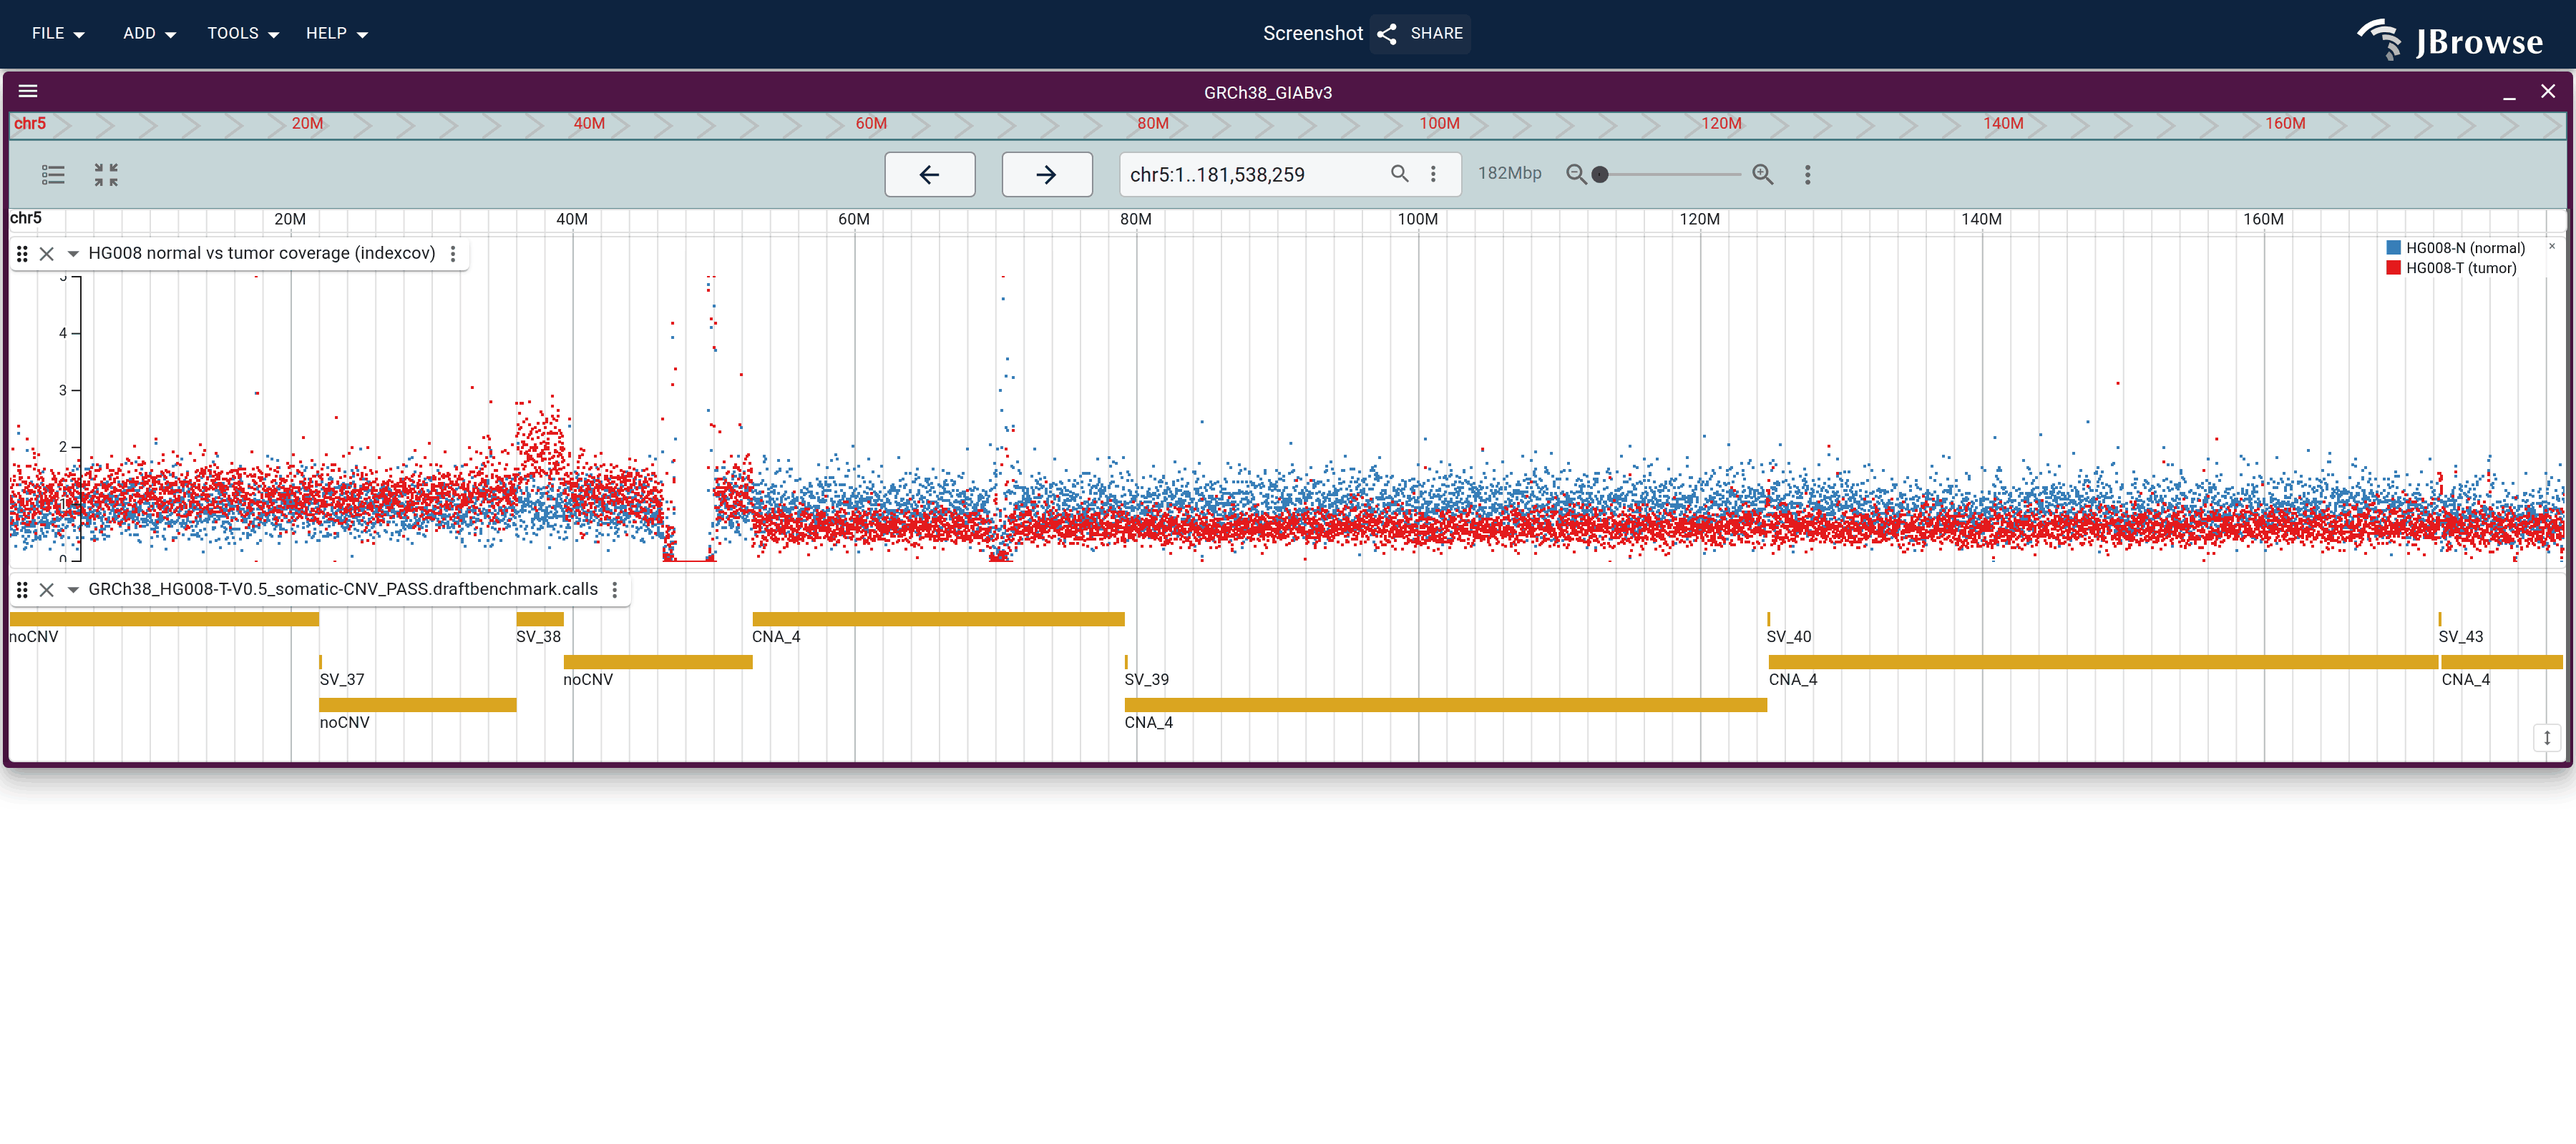
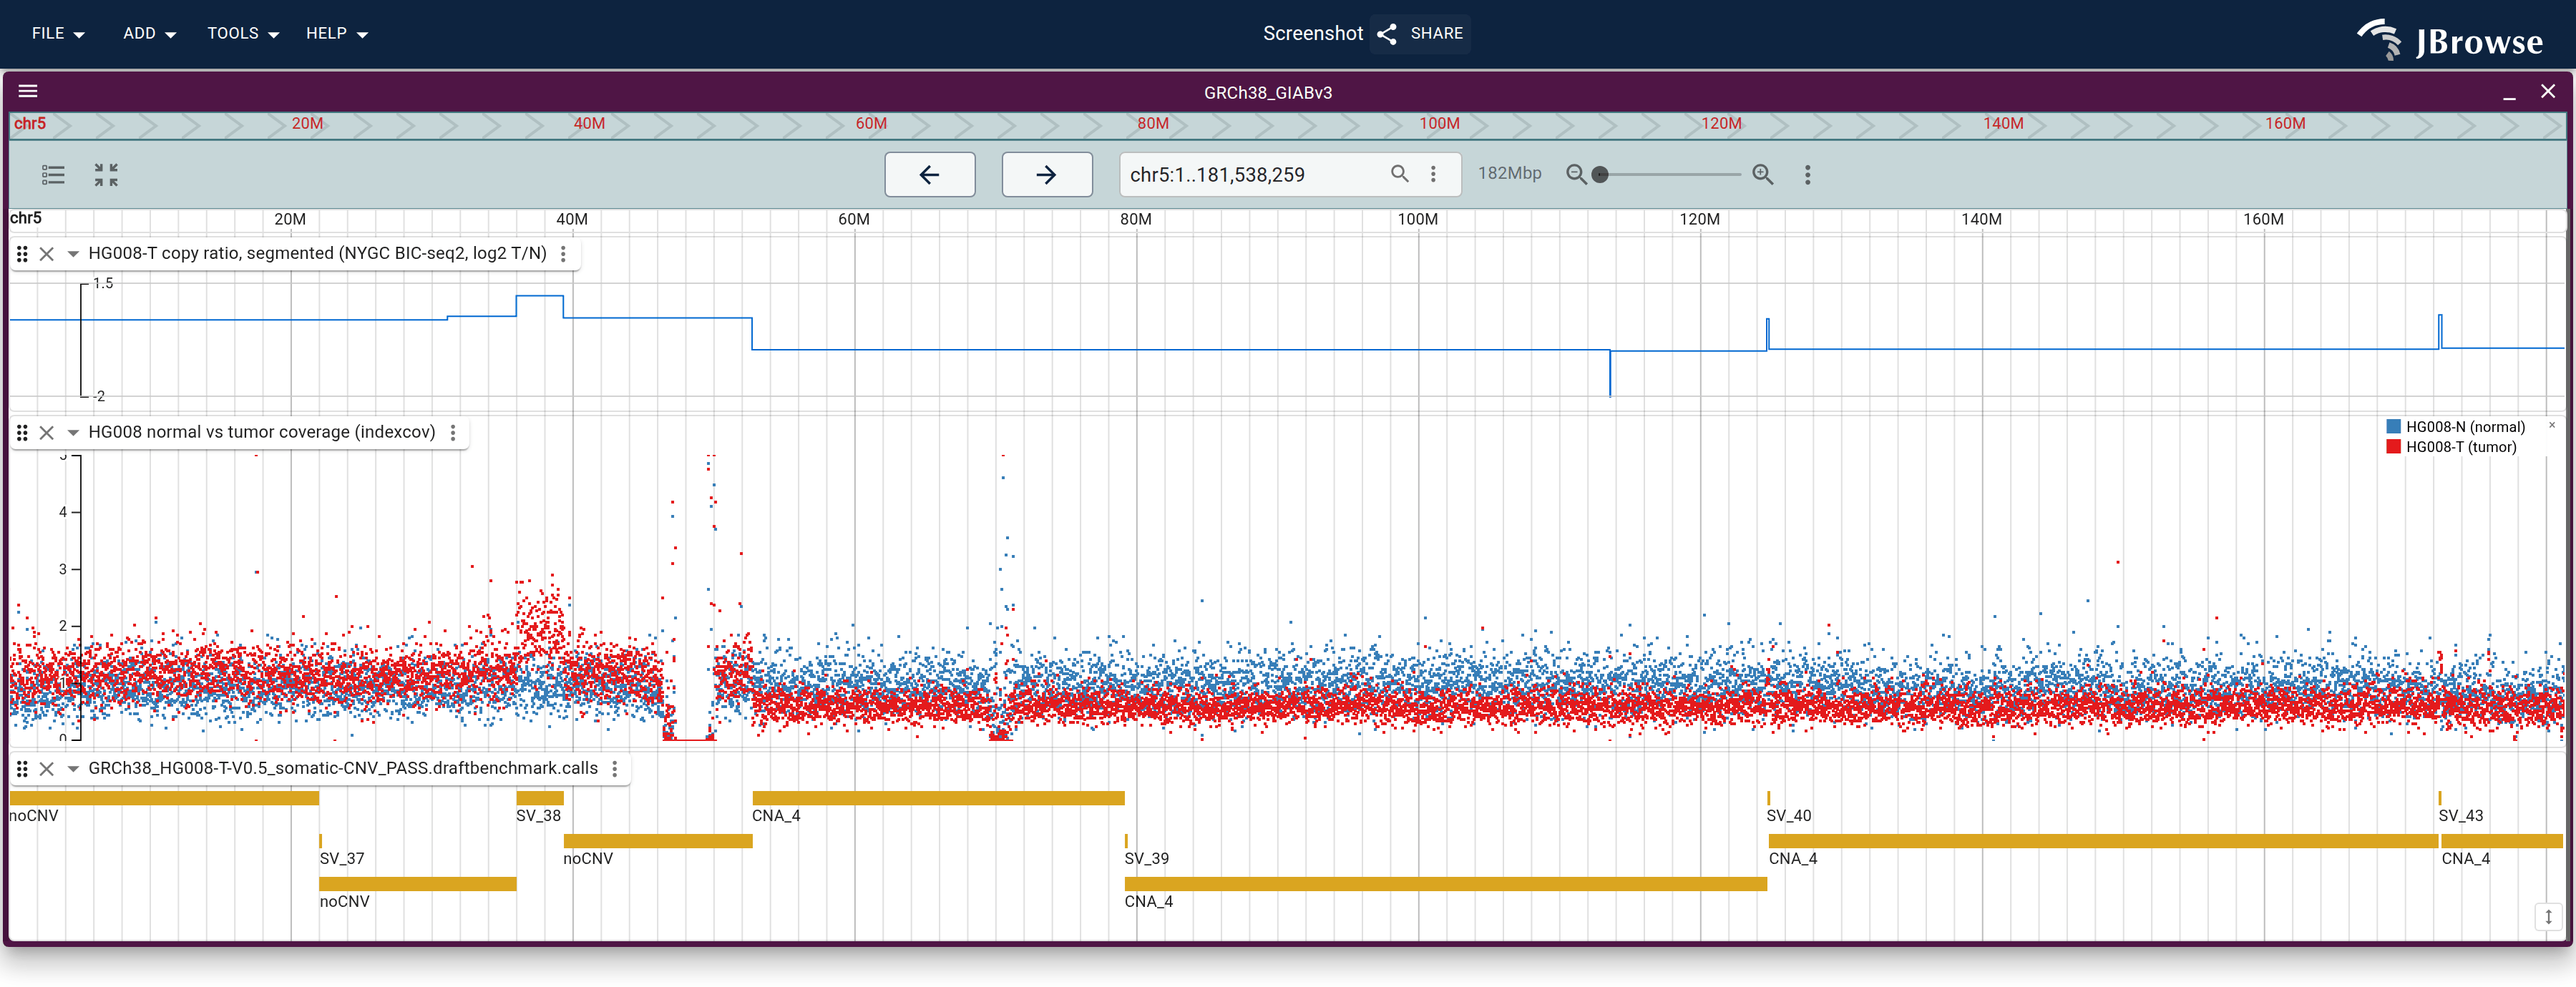
docs(cgiab): finish the copy-ratio lane across the tutorial, and put it in the demo config
The other two CNV figures read depth alone. Whole chr5 now leads with the
segmented lane over the indexcov scatter, and the CDKN2A figure gains what turns
out to be its best evidence: BIC-seq2 segments the focal homozygous deletion at
chr9:21,952,524-21,972,302, which is the benchmark's own SV_75 interval to
within a few dozen bp, so the segment's two edges, the tumour coverage cliff,
the read drop-out and the CN 0 call are four independent lanes agreeing on the
same pair of breakpoints.

The track also joins demos/cgiab/config.json, so it is available to anyone
opening the demo rather than only to the figures that declare it as a session
track.

Claude-Session: https://claude.ai/code/session_01MyHV8buqv4ZRohv9DCCNE1

diff --git a/website/scripts/specs/sv.ts b/website/scripts/specs/sv.ts
@@ -1046,6 +1046,7 @@ export const svSpecs: ScreenshotSpec[] = [
     // directly as copy number).
     url: cgiabUrl({
       sessionTracks: [
+        HG008_BICSEQ2_TRACK,
         {
           type: 'MultiQuantitativeTrack',
           trackId: 'hg008_cnv_indexcov_chr5',
@@ -1084,6 +1085,22 @@ export const svSpecs: ScreenshotSpec[] = [
           trackLabels: 'offset',
           tracks: [
             {
+              trackId: 'hg008_bicseq2',
+              type: 'LinearWiggleDisplay',
+              // step, not scatter: 196 segments genome-wide, so every value is
+              // a plateau and the reader's question is where the plateau moves
+              defaultRendering: 'line',
+              useBicolor: false,
+              displayCrossHatches: true,
+              // same fixed range as the other CNV figures, so a step means the
+              // same thing across the tutorial. A homozygous deletion has no
+              // finite ratio (BIC-seq2 writes it as a large negative) and clips
+              // off the bottom rather than setting the axis for everything else.
+              minScore: -2,
+              maxScore: 1.5,
+              height: 90,
+            },
+            {
               trackId: 'hg008_cnv_indexcov_chr5',
               type: 'MultiLinearWiggleDisplay',
               defaultRendering: 'multiscatter',
@@ -1102,6 +1119,9 @@ export const svSpecs: ScreenshotSpec[] = [
     readyTimeout: 60000,
     // wider viewport so the whole-chromosome CNV + bed track aren't cut off
     viewportWidth: 1800,
+    // the segmented lane(90) + the coverage rows(200) + the bed calls + chrome;
+    // sized rather than left to the default, which now leaves blank below
+    viewportHeight: 690,
     settleMs: 15000,
   },
 
@@ -1219,6 +1239,7 @@ export const svSpecs: ScreenshotSpec[] = [
     name: 'sv_cgiab/driver_cdkn2a_deletion',
     url: cgiabUrl({
       sessionTracks: [
+        HG008_BICSEQ2_TRACK,
         {
           // tumor over normal, one row each on a shared fixed scale
           type: 'MultiQuantitativeTrack',
@@ -1299,6 +1320,22 @@ export const svSpecs: ScreenshotSpec[] = [
               geneGlyphMode: 'longestCoding',
             },
             {
+              trackId: 'hg008_bicseq2',
+              type: 'LinearWiggleDisplay',
+              // step, not scatter: 196 segments genome-wide, so every value is
+              // a plateau and the reader's question is where the plateau moves
+              defaultRendering: 'line',
+              useBicolor: false,
+              displayCrossHatches: true,
+              // same fixed range as the other CNV figures, so a step means the
+              // same thing across the tutorial. A homozygous deletion has no
+              // finite ratio (BIC-seq2 writes it as a large negative) and clips
+              // off the bottom rather than setting the axis for everything else.
+              minScore: -2,
+              maxScore: 1.5,
+              height: 90,
+            },
+            {
               // multirowxy: one filled profile per sample, stacked on the fixed
               // 0..80 range set above rather than each row's own autoscale.
               trackId: 'hg008_tn_perbase',
@@ -1354,7 +1391,7 @@ export const svSpecs: ScreenshotSpec[] = [
     viewportWidth: 1500,
     // 800 framed the 120px HiFiCNV depth lane this replaced; the two-row
     // coverage track is 280
-    viewportHeight: 960,
+    viewportHeight: 1060,
     settleMs: 30000,
   },
 
